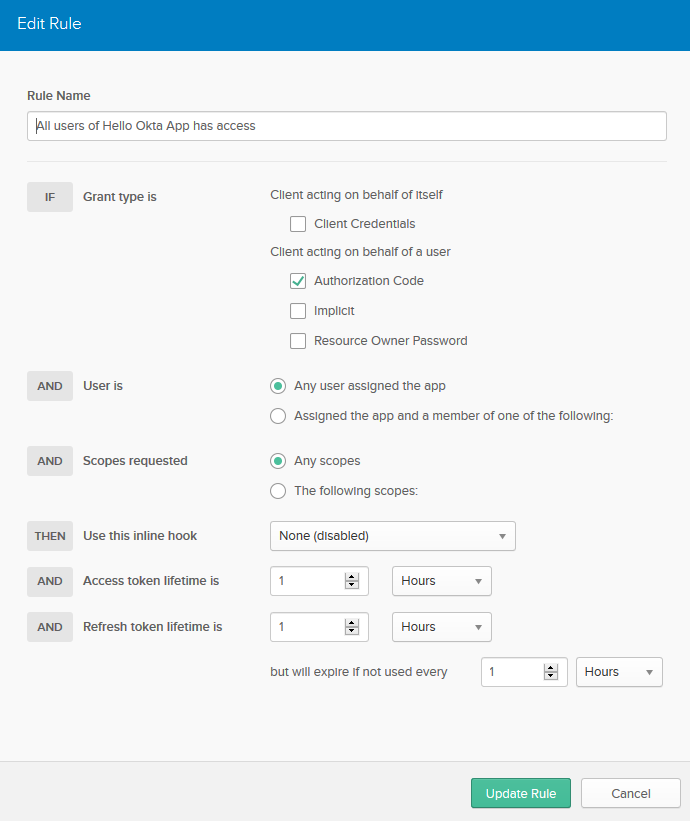
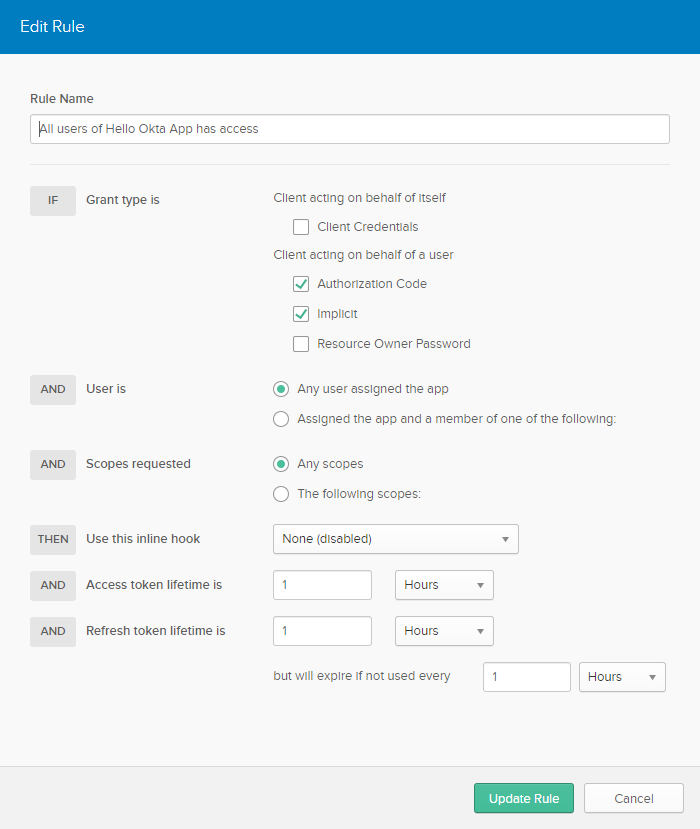
pkta config adjusted for SPA (hello-okta-spa)

diff --git a/README.md b/README.md
@@ -82,9 +82,9 @@ Populate the fields with these values:
 | FIELD NAME | VALUE |
 | --- | ---|
 | **Name** | `Hello Okta App` |
-| **Base URIs** | http://localhost:8060<br>http://localhost:8070 |
-| **Login redirect URIs** | http://localhost:8060/login/oauth2/code/okta<br>http://localhost:8070/login/oauth2/code/okta |
-| **Allowed grant types** | `Authorization Code` |
+| **Base URIs** | http://localhost:8060<br>http://localhost:8070<br>http://localhost:3000 |
+| **Login redirect URIs** | http://localhost:8060/login/oauth2/code/okta<br>http://localhost:8070/login/oauth2/code/okta<br>http://localhost:3000/implicit/callback |
+| **Allowed grant types** | `Authorization Code`<br>`Implicit (Hybrid)` (both checkboxes checked - `Allow ID Token with implicit grant type` and `Allow Access Token with implicit grant type`) |
 
 Click **Done**.
 
@@ -214,7 +214,7 @@ Click **Add Rule**. Fill in the fields with these values:
 | FIELD NAME | VALUE |
 | --- | ---|
 | **Name** | `All users of Hello Okta App has access` |
-| **Grant type is** | `Authorization Code` |
+| **Grant type is** | `Authorization Code`<br>`Implicit` |
 | **Scopes requested** | The following scopes: `OIDC default scopes` |
 
 Click **Create Rule**.
